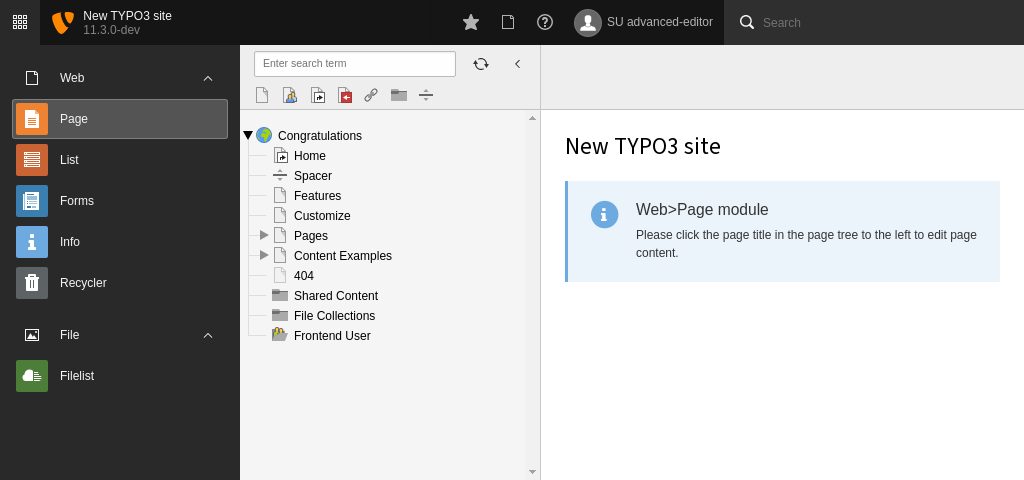
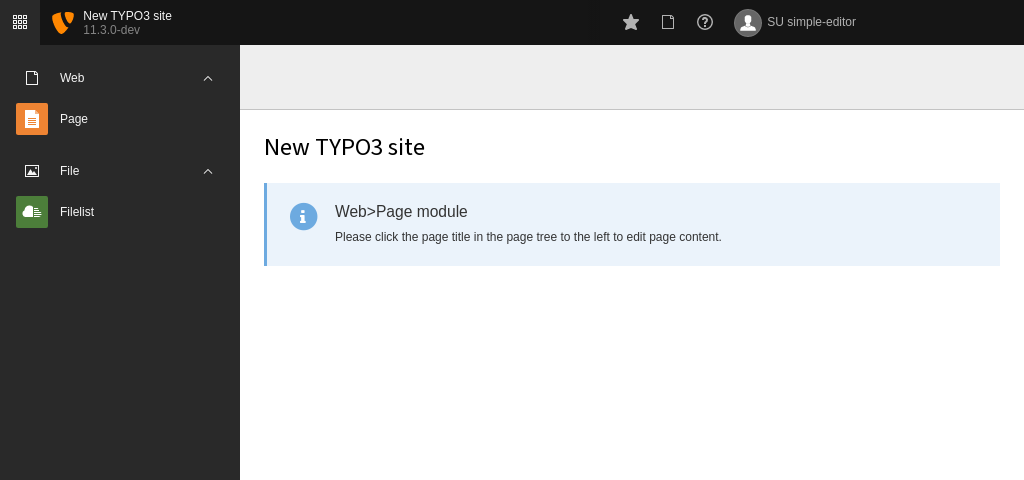
[TASK] Automate Access User and Groups Screenshots refs https://github.com/TYPO3-Documentation/t3docs-screenshots/issues/147

diff --git a/Documentation/UserManagement/BackendUsers/Index.rst b/Documentation/UserManagement/BackendUsers/Index.rst
@@ -9,7 +9,7 @@ Backend Users
 You can manage backend users using the **SYSTEM > Backend users**
 module.
 
-.. include:: /Images/ManualScreenshots/BackendUsers/BeUsersModule.rst.txt
+.. include:: /Images/AutomaticScreenshots/BackendUsers/BeUsersModule.rst.txt
 
 
 This module makes it possible to search and filter users. They
@@ -57,9 +57,7 @@ administrator) is to use the "simulate user" feature:
 And here is what "simple\_editor" sees when accessing the
 TYPO3 CMS backend:
 
-.. figure:: /Images/ManualScreenshots/BackendUsers/SimpleEditorUser.png
-   :alt: The backend view for the "simple\_editor"
-   :class: with-shadow
+.. include:: /Images/AutomaticScreenshots/BackendUsers/SimpleEditorUser.rst.txt
 
 
 As you can see, this user only has access to the "Page" module.
@@ -93,5 +91,5 @@ for a good exercise for changing user rights in the next chapters.
    User records can also be accessed using the **WEB > List** module
    and clicking on the root node (the one with the TYPO3 CMS logo).
 
-   .. include:: /Images/ManualScreenshots/BackendUsers/BeUsersList.rst.txt
+   .. include:: /Images/AutomaticScreenshots/BackendUsers/BeUsersList.rst.txt
 

diff --git a/Documentation/OtherBackendModules/BackendLocalization/Index.rst b/Documentation/OtherBackendModules/BackendLocalization/Index.rst
@@ -51,9 +51,7 @@ Change the Language in the Backend
 
 3. Hit the "Save" button in the docheader.
 
-.. figure:: /Images/ManualScreenshots/BackendUsers/SettingsLanguage.png
-   :alt: Changing the current user's interface language
-   :class: with-shadow
+.. include:: Documentation/Images/AutomaticScreenshots/BackendUsers/SettingsLanguage.rst.txt
 
 The backend should update itself automatically
 but you may want to reload the page in the browser.

diff --git a/Documentation/UserManagement/BackendUsers/CreateDefaultEditors.rst b/Documentation/UserManagement/BackendUsers/CreateDefaultEditors.rst
@@ -77,11 +77,7 @@ The group "Simple Editors" should have the page "Content Examples" set as
 
 8. Click Save
 
-.. figure:: /Images/ManualScreenshots/BackendGroups/GroupDbMount.png
-   :class: with-shadow
-   :alt: Change DB Mount
-
-   Change DB Mount
+.. include:: /Images/AutomaticScreenshots/BackendGroups/GroupDbMount.rst.txt
 
 
 What did we just do?

diff --git a/Documentation/UserManagement/Groups/Index.rst b/Documentation/UserManagement/Groups/Index.rst
@@ -29,4 +29,4 @@ information about the group. Scroll down until you find the
 "References to this item:" section. This shows the list of backend
 users who are part of this group.
 
-.. include:: /Images/ManualScreenshots/BackendGroups/GroupDetail.rst.txt
+.. include:: /Images/AutomaticScreenshots/BackendGroups/GroupDetail.rst.txt
